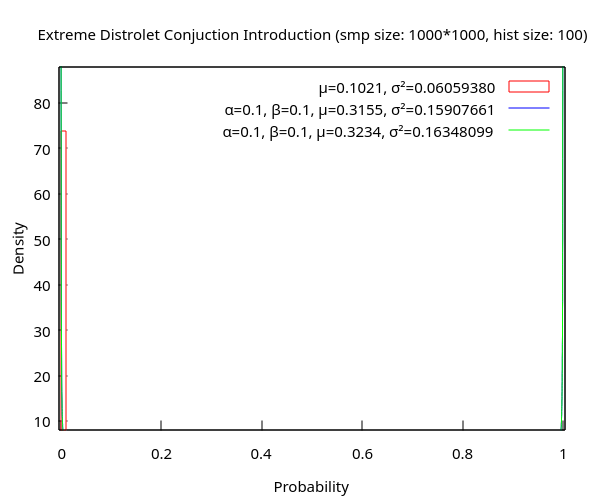
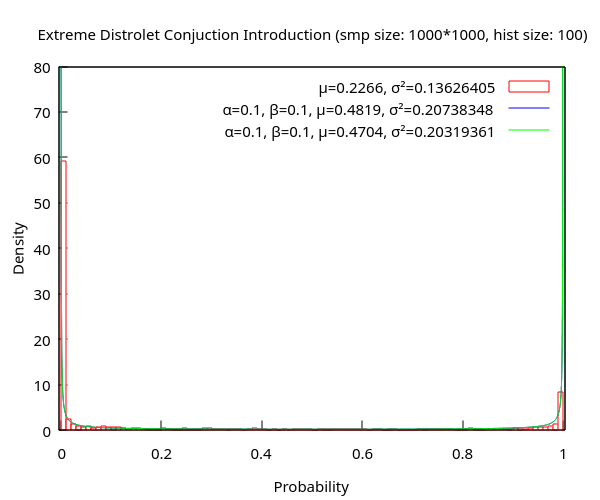
Correct some comments about conjunction

diff --git a/README.md b/README.md
@@ -922,13 +922,17 @@ corresponds to simple truth values with a positive count of positive
 and total evidence, while no observation has ever been made.
 
 Let us push the experiment even further by considering other priors,
-start with Jeffreys's.
+start with Jeffreys'.
 
 ![](plots/independence-conjunction-introduction-a1_0.5_b1_0.5_a2_0.5_b2_0.5.png)
 ![](plots/unidistrolet-conjunction-introduction-a1_0.5_b1_0.5_a2_0.5_b2_0.5.png)
 ![](plots/extdistrolet-conjunction-introduction-a1_0.5_b1_0.5_a2_0.5_b2_0.5.png)
 
-NEXT
+For all three cases (independence, uniform and extreme), the resulting
+variances, around 0.07, are smaller than that the variances of the
+premises, even more so than with a Bayes' prior.  Note that the
+resulting mean, around 0.23, remains close to 0.25.  Overall the
+results make sense.
 
 Then let us consider a prior somewhere between Jeffreys and Haldane
 with α=β=0.1.
@@ -937,7 +941,11 @@ with α=β=0.1.
 ![](plots/unidistrolet-conjunction-introduction-a1_0.1_b1_0.1_a2_0.1_b2_0.1.png)
 ![](plots/extdistrolet-conjunction-introduction-a1_0.1_b1_0.1_a2_0.1_b2_0.1.png)
 
-NEXT
+The resulting means, around 0.22, are drifting a bit away from 0.25.
+One may notice that the means of premises are around 0.47 instead of
+0.5, likely due to some floating point number calculation
+imprecisions, so that might explain it.  But overall the results still
+make sense.
 
 Finally let us consider a prior that is getting even closer to the
 Haldane prior with α=β=0.01.
@@ -948,6 +956,7 @@ Haldane prior with α=β=0.01.
 
 NEXT
 
-To conclude, it seems that the structure of a composite predicate,
-like a conjunction of two predicates, by itself provides evidence,
-alongside direct observations.
+To conclude, it interestingly seems that the structure of a composite
+predicate, like a conjunction of two predicates, by itself provides
+some forms of evidence.  In other words, evidence can be obtained not
+just from direct observations but from composite structures as well.
